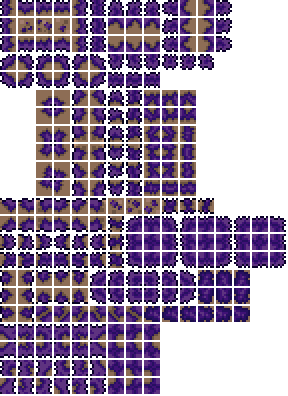
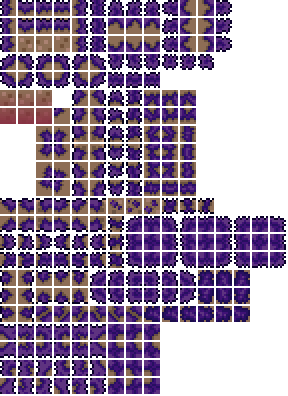
Add island reflections

Changed region(s): [[0.0, 0.2121, 0.25, 0.3333], [0.0625, 0.0303, 0.25, 0.1515]]

diff --git a/Content/Subworlds/Generation/ShrineIslandPass.cs b/Content/Subworlds/Generation/ShrineIslandPass.cs
@@ -6,7 +6,6 @@ using System;
 using System.Collections.Generic;
 using System.Linq;
 using Terraria;
-using Terraria.ID;
 using Terraria.IO;
 using Terraria.ModLoader;
 using Terraria.WorldBuilding;
@@ -24,10 +23,10 @@ public class ShrineIslandPass : GenPass
         BridgeGenerationSettings bridgeSettings = BaseBridgePass.BridgeGenerator.Settings;
         int left = BaseBridgePass.BridgeGenerator.Right + ForgottenShrineGenerationHelpers.LakeWidth + bridgeSettings.DockWidth;
         int right = left + ForgottenShrineGenerationHelpers.ShrineIslandWidth;
-        int bottom = Main.maxTilesY - ForgottenShrineGenerationHelpers.GroundDepth;
-        int baseElevationAboveSeaLevel = 24;
-        int maxBaseElevation = ForgottenShrineGenerationHelpers.WaterDepth + baseElevationAboveSeaLevel;
-        int basinDepth = 12;
+        int bottom = Main.maxTilesY - ForgottenShrineGenerationHelpers.GroundDepth - ForgottenShrineGenerationHelpers.WaterDepth;
+        int baseElevationAboveSeaLevel = 12;
+        int maxBaseElevation = baseElevationAboveSeaLevel;
+        int basinDepth = 9;
         ushort grassID = (ushort)ModContent.TileType<SacredGrass>();
 
         // Create the island.
@@ -37,17 +36,12 @@ public class ShrineIslandPass : GenPass
             float heightInterpolant = LumUtils.InverseLerpBump(0f, 0.1f, 0.9f, 1f, xInterpolant);
             float easedHeightInterpolant = MathF.Pow(heightInterpolant, 0.66f);
             int top = (int)(bottom - maxBaseElevation * easedHeightInterpolant + LumUtils.Convert01To010(xInterpolant) * basinDepth * 0.999f);
-            int stoneDepth = (int)MathHelper.Lerp(3f, 5f, LumUtils.AperiodicSin(xInterpolant * 23f).Squared());
 
             for (int y = top; y <= bottom; y++)
             {
                 Tile t = Main.tile[x, y];
                 t.HasTile = true;
-                t.TileType = TileID.Dirt;
-                if (y == top)
-                    t.TileType = grassID;
-                if (y >= top + stoneDepth)
-                    t.TileType = TileID.Stone;
+                t.TileType = grassID;
             }
         }
 
@@ -66,7 +60,7 @@ public class ShrineIslandPass : GenPass
         for (int i = 0; i < lilyCount; i++)
         {
             int lilyX = (int)(WorldGen.genRand.NextFloat(left, right) * 16f);
-            int lilyY = (int)(LumUtils.FindGroundVertical(new Point((int)(lilyX / 16f), Main.maxTilesY - 10)).Y * 16f);
+            int lilyY = (int)(LumUtils.FindGroundVertical(new Point((int)(lilyX / 16f), 10)).Y * 16f) + 18;
             Point tileAbove = new Point(lilyX / 16, lilyY / 16 - 1);
             if (Framing.GetTileSafely(tileAbove).LiquidAmount >= 20)
                 continue;
@@ -81,7 +75,7 @@ public class ShrineIslandPass : GenPass
         for (int i = 0; i < pillarCount; i++)
         {
             int pillarX = (int)(WorldGen.genRand.NextFloat(left, right) * 16f);
-            int pillarY = (int)(LumUtils.FindGroundVertical(new Point((int)(pillarX / 16f), Main.maxTilesY - 10)).Y * 16f) + 24;
+            int pillarY = (int)(LumUtils.FindGroundVertical(new Point((int)(pillarX / 16f), 10)).Y * 16f) + 24;
 
             Point pillarSpawnPosition = new Point(pillarX, pillarY);
             float pillarRotation = WorldGen.genRand.NextFloatDirection() * 0.23f;

diff --git a/Content/Subworlds/Generation/CreateUnderwaterVegetationPass.cs b/Content/Subworlds/Generation/CreateUnderwaterVegetationPass.cs
@@ -1,4 +1,5 @@
-using HeavenlyArsenal.Content.Tiles.ForgottenShrine;
+using HeavenlyArsenal.Content.Subworlds.Generation.Bridges;
+using HeavenlyArsenal.Content.Tiles.ForgottenShrine;
 using Microsoft.Xna.Framework;
 using Terraria;
 using Terraria.DataStructures;
@@ -17,6 +18,9 @@ public class CreateUnderwaterVegetationPass : GenPass
     {
         progress.Message = "Creating underwater vegetation.";
 
+        int shrineIslandLeft = BaseBridgePass.BridgeGenerator.Right + ForgottenShrineGenerationHelpers.LakeWidth + BaseBridgePass.GenerationSettings.DockWidth;
+        int shrineIslandRight = shrineIslandLeft + ForgottenShrineGenerationHelpers.ShrineIslandWidth;
+
         // Create underwater trees.
         ushort treeID = (ushort)ModContent.TileType<UnderwaterTree>();
         for (int i = 0; i < ForgottenShrineGenerationHelpers.UnderwaterTreeCount; i++)
@@ -24,6 +28,9 @@ public class CreateUnderwaterVegetationPass : GenPass
             float xInterpolant = i / (float)(ForgottenShrineGenerationHelpers.UnderwaterTreeCount - 1f);
             int x = (int)MathHelper.Lerp(50f, Main.maxTilesX - 50f, xInterpolant) + WorldGen.genRand.Next(-24, 24);
             int y = Main.maxTilesY - ForgottenShrineGenerationHelpers.GroundDepth - 1;
+            if (x >= shrineIslandLeft && y <= shrineIslandRight)
+                continue;
+
             Tile t = Main.tile[x, y];
 
             if (!t.HasTile)
@@ -41,8 +48,10 @@ public class CreateUnderwaterVegetationPass : GenPass
             float xInterpolant = i / (float)(cattailCount - 1f);
             int x = (int)MathHelper.Lerp(20f, Main.maxTilesX - 20f, xInterpolant) + WorldGen.genRand.Next(-20, 20);
             int y = Main.maxTilesY - ForgottenShrineGenerationHelpers.GroundDepth - 1;
-            int height = ForgottenShrineGenerationHelpers.WaterDepth + WorldGen.genRand.Next(1, ForgottenShrineGenerationHelpers.MaxCattailHeight);
+            if (x >= shrineIslandLeft && y <= shrineIslandRight)
+                continue;
 
+            int height = ForgottenShrineGenerationHelpers.WaterDepth + WorldGen.genRand.Next(1, ForgottenShrineGenerationHelpers.MaxCattailHeight);
             Tile t = Main.tile[x, y];
             if (!t.HasTile)
                 GenerateCattail(x, y, height);
@@ -53,8 +62,10 @@ public class CreateUnderwaterVegetationPass : GenPass
         {
             int x = WorldGen.genRand.Next(10, Main.maxTilesX - 10);
             int y = Main.maxTilesY - ForgottenShrineGenerationHelpers.GroundDepth - ForgottenShrineGenerationHelpers.WaterDepth;
-            Tile t = Main.tile[x, y];
+            if (x >= shrineIslandLeft && y <= shrineIslandRight)
+                continue;
 
+            Tile t = Main.tile[x, y];
             if (t.HasTile || t.LiquidAmount == 0)
                 continue;
 

diff --git a/Content/Subworlds/ForgottenShrineSubworld.cs b/Content/Subworlds/ForgottenShrineSubworld.cs
@@ -2,6 +2,7 @@
 using HeavenlyArsenal.Content.Subworlds.Generation;
 using HeavenlyArsenal.Content.Subworlds.Generation.Bridges;
 using Luminance.Assets;
+using Luminance.Common.Utilities;
 using Microsoft.Xna.Framework;
 using Microsoft.Xna.Framework.Graphics;
 using NoxusBoss.Content.NPCs.Bosses.Avatar.SecondPhaseForm;
@@ -12,6 +13,7 @@ using SubworldLibrary;
 using System.Collections.Generic;
 using Terraria;
 using Terraria.ModLoader.IO;
+using Terraria.Utilities;
 using Terraria.WorldBuilding;
 
 namespace HeavenlyArsenal.Content.Subworlds;
@@ -62,6 +64,37 @@ public class ForgottenShrineSubworld : Subworld
     {
         Texture2D pixel = MiscTexturesRegistry.Pixel.Value;
         Main.spriteBatch.Draw(pixel, Main.ScreenSize.ToVector2() * 0.5f, null, Color.Black, 0f, pixel.Size() * 0.5f, WotGUtils.ViewportSize * 3f, 0, 0f);
+    }
+
+    public override bool GetLight(Tile tile, int x, int y, ref FastRandom rand, ref Vector3 color)
+    {
+        int shrineIslandLeft = BaseBridgePass.BridgeGenerator.Right + ForgottenShrineGenerationHelpers.LakeWidth + BaseBridgePass.GenerationSettings.DockWidth;
+        int shrineIslandWidth = ForgottenShrineGenerationHelpers.ShrineIslandWidth;
+        float islandInterpolant = LumUtils.InverseLerpBump(0f, 16f, shrineIslandWidth - 16f, shrineIslandWidth, x - shrineIslandLeft);
+        if (islandInterpolant > 0f && Main.tile[x, y].HasTile)
+        {
+            int distanceToSurface = 4;
+            for (int dy = 0; dy < 4; dy++)
+            {
+                Tile t = Framing.GetTileSafely(x, y + dy);
+                if (!t.HasTile && t.LiquidAmount >= 200)
+                {
+                    distanceToSurface = dy;
+                    break;
+                }
+
+                // Check if the tile Y frame is less than or equal to 18 to determine if it's a grass layer.
+                // This SHOULD check for the grass ID but I fear the potential performance penalties that could incur.
+                if (t.HasTile && t.TileFrameY <= 18)
+                {
+                    distanceToSurface = dy;
+                    break;
+                }
+            }
+            color = Vector3.One * LumUtils.InverseLerp(4f, 1f, distanceToSurface).Squared() * islandInterpolant * 0.63f;
+        }
+
+        return false;
     }
 
     public static TagCompound SafeWorldDataToTag(string suffix, bool saveInCentralRegistry = true)

diff --git a/Content/Tiles/ForgottenShrine/SacredGrass.cs b/Content/Tiles/ForgottenShrine/SacredGrass.cs
@@ -33,6 +33,55 @@ public class SacredGrass : ModTile
         Type = fail ? 1 : 3;
     }
 
+    public override bool TileFrame(int i, int j, ref bool resetFrame, ref bool noBreak)
+    {
+        Tile t = Main.tile[i, j];
+
+        int horizontalChoiceX = (i + j * 13) % 3;
+        bool isLeftEdge = !Framing.GetTileSafely(i - 1, j).HasTile;
+        bool isRightEdge = !Framing.GetTileSafely(i + 1, j).HasTile;
+        int distanceToLiquid = -1;
+        for (int dy = 1; dy <= 2; dy++)
+        {
+            Tile below = Framing.GetTileSafely(i, j + dy);
+            if (!below.HasTile && below.LiquidAmount >= 128)
+            {
+                distanceToLiquid = dy;
+                break;
+            }
+        }
+
+        if (distanceToLiquid != -1)
+        {
+            t.TileFrameX = (short)(WorldGen.genRand.Next(3) * 18);
+            t.TileFrameY = (short)(108 - (distanceToLiquid - 1) * 18);
+        }
+        else if (isLeftEdge)
+        {
+            t.TileFrameX = 0;
+            t.TileFrameY = 54;
+        }
+        else if (isRightEdge)
+        {
+            t.TileFrameX = 18;
+            t.TileFrameY = 54;
+        }
+        else
+        {
+            Tile above = Framing.GetTileSafely(i, j - 1);
+            bool grassAbove = above.HasTile && above.TileType == Type;
+            t.TileFrameX = (short)(horizontalChoiceX * 18 + 18);
+            t.TileFrameY = 0;
+            if (grassAbove)
+            {
+                bool dirtLayer = j % 3 != 0;
+                t.TileFrameY = (short)(dirtLayer ? 36 : 18);
+            }
+        }
+
+        return false;
+    }
+
     public override void KillTile(int i, int j, ref bool fail, ref bool effectOnly, ref bool noItem)
     {
         if (fail && !effectOnly)

diff --git a/Content/Waters/ForgottenShrineWater.cs b/Content/Waters/ForgottenShrineWater.cs
@@ -43,11 +43,13 @@ public class ForgottenShrineWater : ModWaterStyle
         {
             if (liquidType == LiquidID.Water && Main.liquidAlpha[Slot] > 0f)
             {
-                float opacity = MathHelper.Lerp(1f, 1.63f, Main.liquidAlpha[Slot]);
-                liquidColor.TopLeftColor *= opacity;
-                liquidColor.TopRightColor *= opacity;
-                liquidColor.BottomLeftColor *= opacity;
-                liquidColor.BottomRightColor *= opacity;
+                float colorFade = Main.liquidAlpha[Slot] * 0.85f;
+                Color idealColor = new Color(255, 255, 255);
+
+                liquidColor.TopLeftColor = Color.Lerp(liquidColor.TopLeftColor, idealColor, colorFade);
+                liquidColor.TopRightColor = Color.Lerp(liquidColor.TopRightColor, idealColor, colorFade);
+                liquidColor.BottomLeftColor = Color.Lerp(liquidColor.BottomLeftColor, idealColor, colorFade);
+                liquidColor.BottomRightColor = Color.Lerp(liquidColor.BottomRightColor, idealColor, colorFade);
             }
         });
     }

diff --git a/Content/Subworlds/ForgottenShrineLiquidVisualsSystem.cs b/Content/Subworlds/ForgottenShrineLiquidVisualsSystem.cs
@@ -390,7 +390,7 @@ public class ForgottenShrineLiquidVisualsSystem : ModSystem
         reflectionShader.TrySetParameter("oldScreenPosition", Main.screenLastPosition);
         reflectionShader.TrySetParameter("zoom", Main.GameViewMatrix.Zoom);
         reflectionShader.TrySetParameter("reflectionStrength", 0.47f);
-        reflectionShader.TrySetParameter("reflectionMaxDepth", 146f);
+        reflectionShader.TrySetParameter("reflectionMaxDepth", 276f);
         reflectionShader.TrySetParameter("reflectionWaviness", 0.0023f);
         reflectionShader.TrySetParameter("ripplePerspectiveSquishFactor", 2.36f);
         reflectionShader.SetTexture(TileTargetManagers.LiquidTarget, 2, SamplerState.LinearClamp);

diff --git a/Content/Subworlds/Generation/ShrinePass.cs b/Content/Subworlds/Generation/ShrinePass.cs
@@ -26,8 +26,8 @@ public class ShrinePass : GenPass
 
     private static void ConstructToriiGate(int leftX, int rightX, int gateHeight)
     {
-        int leftY = LumUtils.FindGroundVertical(new Point(leftX, Main.maxTilesY - 10)).Y;
-        int rightY = LumUtils.FindGroundVertical(new Point(rightX, Main.maxTilesY - 10)).Y;
+        int leftY = LumUtils.FindGroundVertical(new Point(leftX, 10)).Y + 1;
+        int rightY = LumUtils.FindGroundVertical(new Point(rightX, 10)).Y + 1;
         Point center = new Point((leftX + rightX) / 2, (leftY + rightY) / 2);
 
         PlaceToriiGateColumn(new Point(leftX, leftY), gateHeight, true);
